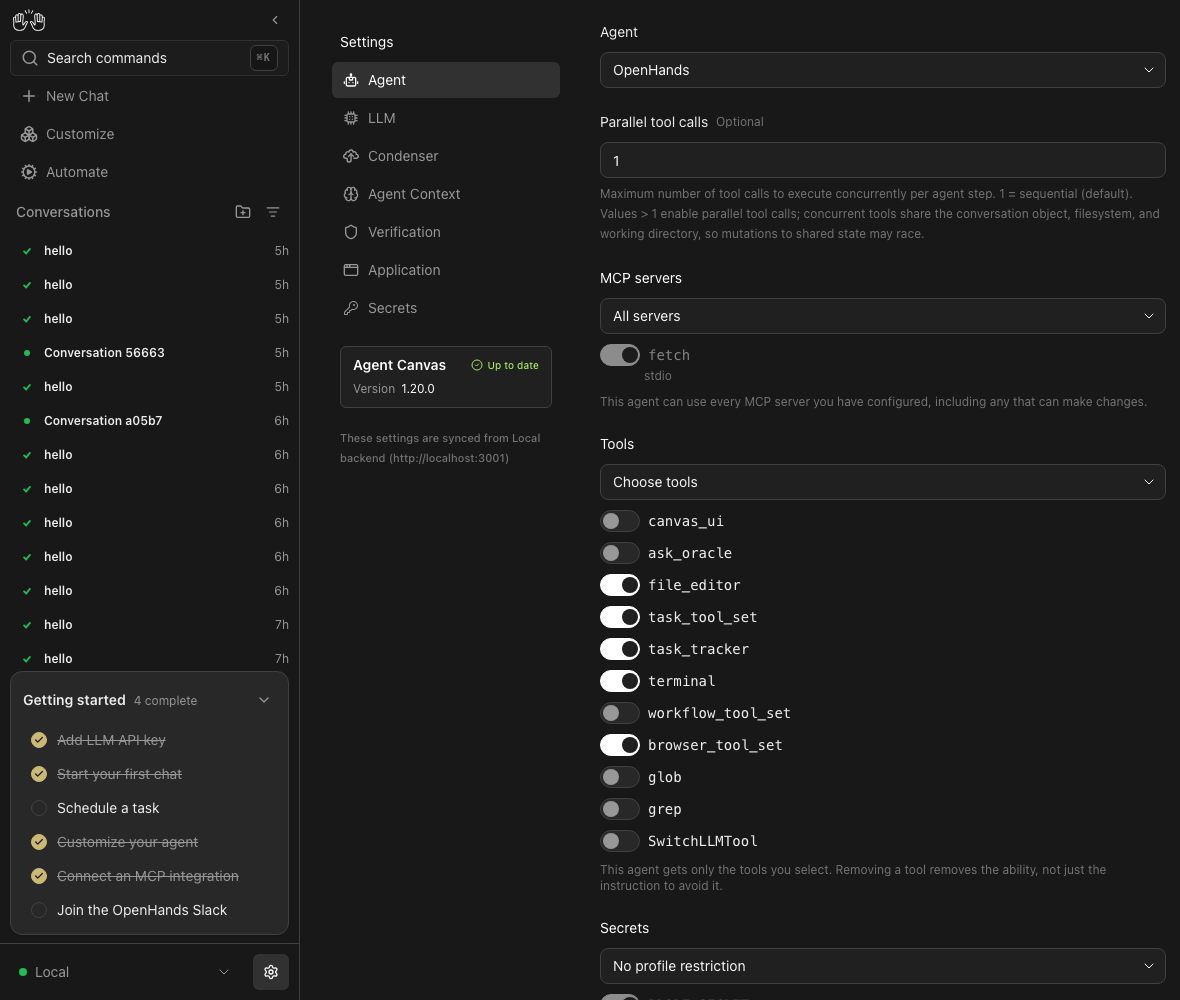
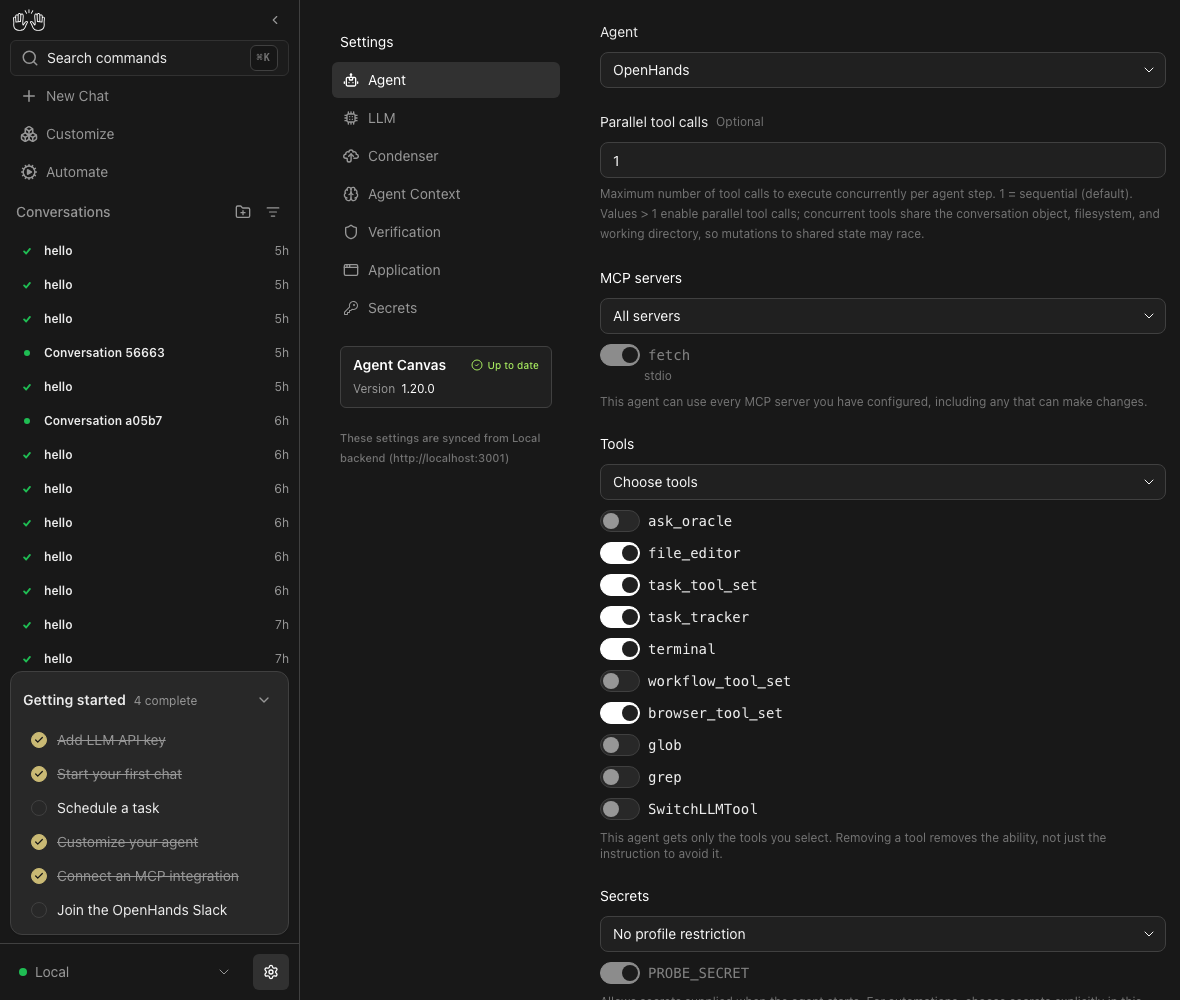
fix(tools): keep canvas_ui out of the profile tool picker
Canvas attaches this tool itself for every conversation it hosts, so it is
not a per-profile capability, but the catalog offered it like one.

diff --git a/tools/canvas_ui_tool.py b/tools/canvas_ui_tool.py
@@ -20,7 +20,7 @@ at the bottom runs before any conversation is created.
 """
 
 from collections.abc import Sequence
-from typing import Literal
+from typing import ClassVar, Literal
 
 from pydantic import Field
 
@@ -116,6 +116,10 @@ the same turn."""
 
 class CanvasUITool(ToolDefinition[CanvasUIAction, CanvasUIObservation]):
     """Tool for controlling the Agent Canvas UI from the agent."""
+
+    # Canvas attaches this itself for every conversation it hosts; it is not a
+    # capability a user chooses per profile.
+    user_selectable: ClassVar[bool] = False
 
     @classmethod
     def create(
